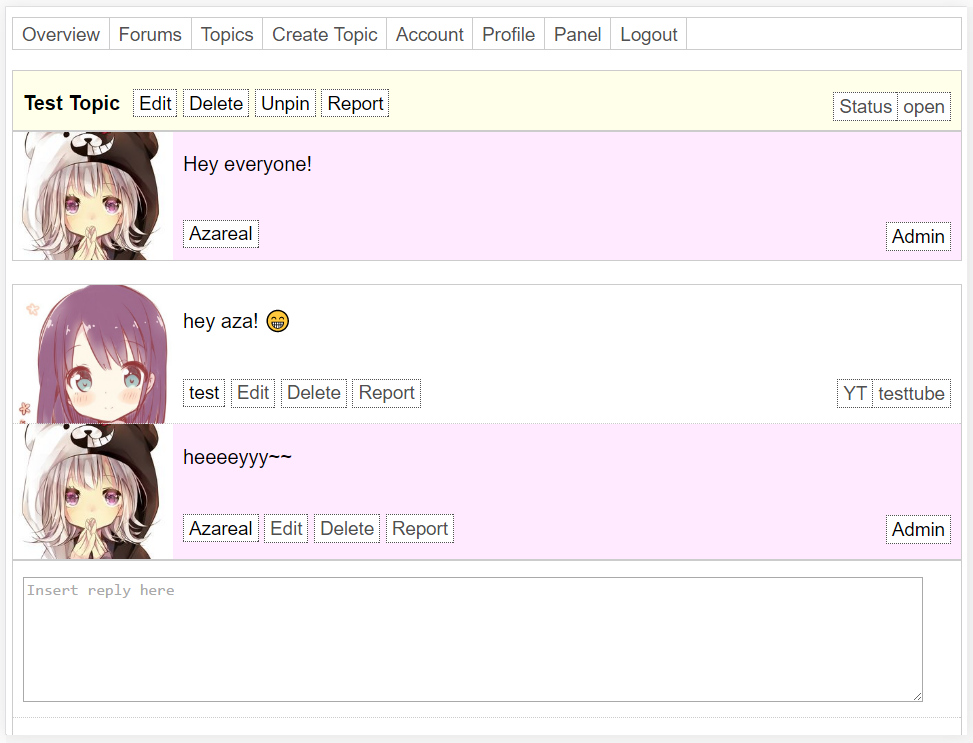
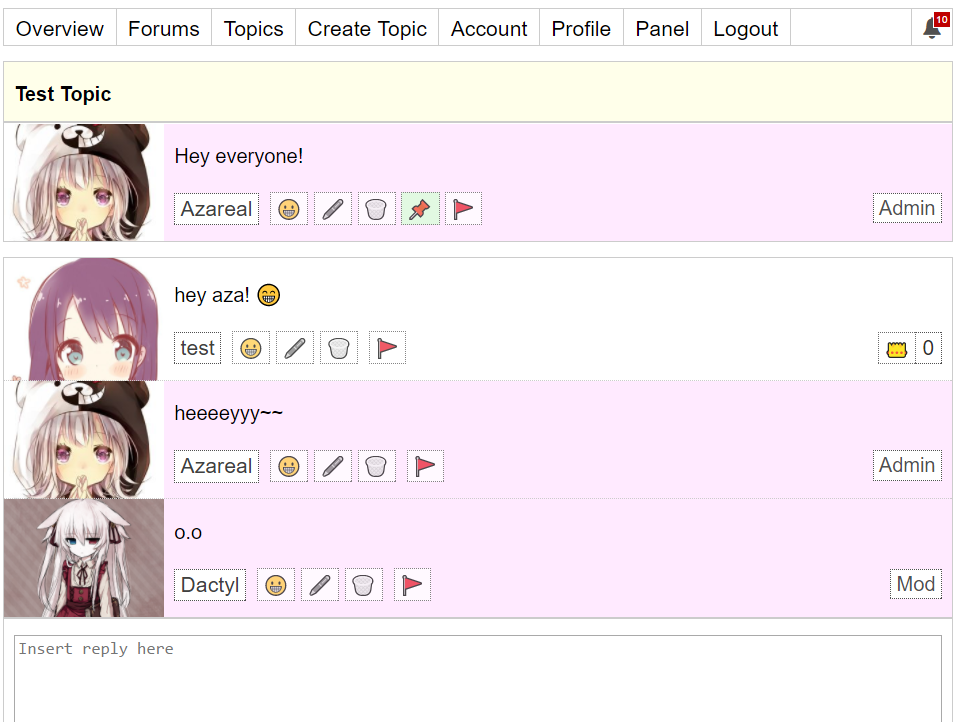
Updated some of the images. More images and work on the theme to come! We're also one commit away from our 100th commit ^_^

diff --git a/README.md b/README.md
@@ -102,6 +102,8 @@ We're looking for ways to clean-up the plugin system so that all of them (except
 
 ![Tempra Simple Topic List](https://github.com/Azareal/Gosora/blob/master/images/topic-list.png)
 
+![Tempra Simple Mobile](https://github.com/Azareal/Gosora/blob/master/images/tempra-simple-mobile-375px.png)
+
 ![Tempra Conflux Theme](https://github.com/Azareal/Gosora/blob/master/images/tempra-conflux.png)
 
 ![Tempra Conflux Mobile](https://github.com/Azareal/Gosora/blob/master/images/tempra-conflux-mobile-320px.png)
